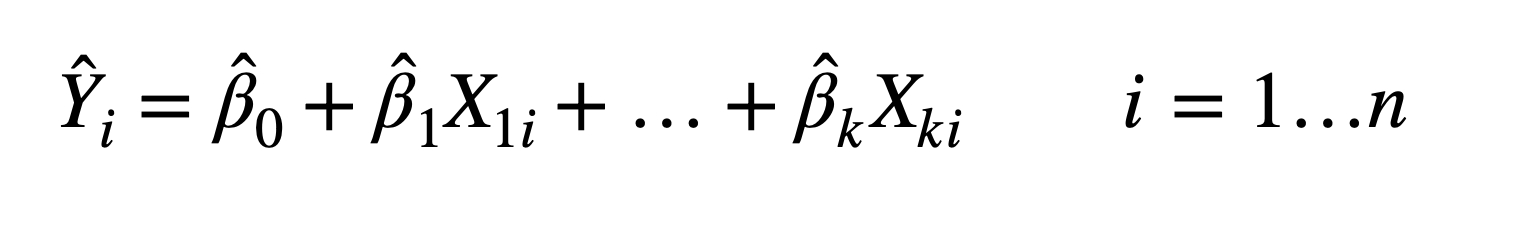
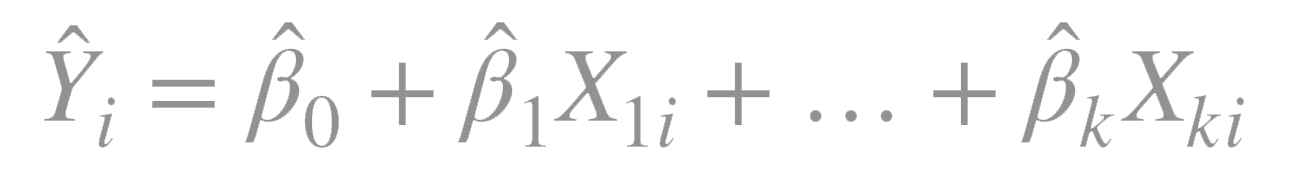
Figured out how to include math equations.

diff --git a/layouts/partials/math.html b/layouts/partials/math.html
@@ -1,0 +1,9 @@
+<script id="MathJax-script" async src="https://cdn.jsdelivr.net/npm/mathjax@3/es5/tex-chtml.js"></script>
+<script>
+  MathJax = {
+    tex: {
+      displayMath: [['\[', '\]']], ['$$', '$$']],  // block
+      inlineMath: [['\(', '\)']]                  // inline
+    }
+  };
+</script>

diff --git a/themes/hugo-creative-portfolio-theme/layouts/_default/baseof.html b/themes/hugo-creative-portfolio-theme/layouts/_default/baseof.html
@@ -1,6 +1,11 @@
 <!DOCTYPE html>
 <html lang="{{ .Site.LanguageCode }}">
-<head>{{ partial "head.html" . }}</head>
+<head>
+  {{ partial "head.html" . }}
+   {{ if .Param "math" }}
+    {{ partialCached "math.html" . }}
+  {{ end }}
+</head>
 <body>
   <div id="all">
       <div class="container-fluid">

diff --git a/themes/hugo-creative-portfolio-theme/layouts/partials/math.html b/themes/hugo-creative-portfolio-theme/layouts/partials/math.html
@@ -1,0 +1,9 @@
+<script id="MathJax-script" async src="https://cdn.jsdelivr.net/npm/mathjax@3/es5/tex-chtml.js"></script>
+<script>
+  MathJax = {
+    tex: {
+      displayMath: [['\[', '\]']], ['$$', '$$']],  // block
+      inlineMath: [['\(', '\)']]                  // inline
+    }
+  };
+</script>

diff --git a/content/tutorials/model_fitting.md b/content/tutorials/model_fitting.md
@@ -24,15 +24,37 @@ A statistical model is means to capture the structure of the data as simply as p
 We use regression to predict a dependent variable from one or more independent variables.  Regression gives us an equation that describes the *form* of the relationship between dependent and independent variables and predicts the *value* of the dependent variable based on the independent variable(s)
 
 ## Ordinary Least Squares (OLS) regression
-Ordinary least squares fits models of the form
+Ordinary least squares fits models of the form:
 
 ![](/img/tutorials/eqn1.png)
 
-where *n* is the number of observations and *k* is the number of predictor variables.
+where \\(n\\) is the number of **observations** and \\(k\\) is the number of **predictor variables**.
 
-![](/img/tutorials/eqn2.png) is the predicted value of the dependent variable for observation *i*
+\\(\hat{Y}_i\\) is the predicted value of the dependent variable for observation \\(i\\)
 
+\\(X_{ki}\\) is the value of the \\(k\\)th independent variable for \\(X = i\\).
 
+\\(\hat{\beta}_0\\) is the predicted value of \\(Y\\) when all the predictor variables are \\(0\\), i.e. the **intercept**.
+
+\\(\hat{\beta}_k\\) is the slope representing  the change in \\(Y\\) for a unit change in \\(X_k\\), i.e .the **regression coeffient** for the \\(k\\)th predictor.
+
+You can use the `lm()` function in R to fit an OLS regression model, and the `summary()` function to obtain model parameters and summary statistics.
+
+### Statistical assumptions underlying OLS regression
+
+- **Normality**: For fixed values of \\(X_{1 \dots n}\\), \\(Y\\) is normally distributed 
+
+- **Independence**: The values of Y for a given X are independent of each other
+
+- **Linearity**: The relationship between the independent variables and the dependent variable is linear
+
+- **Homoscedasticity**: The variance of dependent variable is constant across all levels of the independent variable.
+
+![](/img/tutorials/regression1.png)
+
+When there is more than one predictor, we are dealing with multiple linear regression.
+
+- 
 # Linear Mixed Effects Models
 
 [Introduction to linear mixed models](https://ourcodingclub.github.io/tutorials/mixed-models/)

diff --git a/content/tutorials/R_tutorials.md b/content/tutorials/R_tutorials.md
@@ -22,7 +22,6 @@ R is not just a a statistics application, but a full-fledged programming languag
 ### Introductory Texts
 
 
-
 [*R for Non-Programmers: A Guide for Social Scientists* by Daniel Dauber](https://bookdown.org/daniel_dauber_io/r4np_book/)
 
 This introductory textbook does not assume or expect any prior knowledge or skills in programming or statistical analysis. Instead, this book offers a comprehensive entry to R programming for novices and more experienced analysts wishing to migrate from other computational software.
@@ -62,6 +61,10 @@ In early 2011, Danielle Navarro started teaching an introductory statistics clas
 [R for Data Science by Hadley Wickham & Garrett Grolemund](https://r4ds.had.co.nz/index.html)
 
 [*Data Analysis* in R by Steve Midway](https://bookdown.org/steve_midway/DAR/)
+
+[An Introduction to R by Alex Douglas, Deon Roos, Francesca Mancini, Ana Couto & David Lusseau](https://intro2r.com)
+
+I like this book because it focuses on reproducible research practices and covers topics such as  creating reproducible reports and version control. From the text: "the single biggest reason to use R is that it facilitates robust and reproducible research practices... writing code to perform your analysis ensures you have a permanent and accurate record of all the methods you used (and decisions you made) whilst analysing your data...This is one of the tenets of open science."  
 
 [R in Action by Robert Kabacoff](http://www.cs.uni.edu/~jacobson/4772/week11/R_in_Action.pdf)
 

diff --git a/content/tutorials/python.md b/content/tutorials/python.md
@@ -20,6 +20,8 @@ Python is a popular programming language with a  simple, easy to learn syntax th
 
 To get started with Python follow [this (excellent!) Python tutorial](https://learnpythontherightway.com/#read).
 
+
+
 [LinkedIn Learning](https://ihelp.providence.edu/services/linkedin-learning/) is available to all faculty, staff, and students at PC. Access it by logging into to your LinkedIn account with your Providence College email. 
 
 #### LinkedIn Learning Tutorials
@@ -28,4 +30,12 @@ To get started with Python follow [this (excellent!) Python tutorial](https://le
 
 [Learning Python](https://www.linkedin.com/learning/learning-python-14393370)
 
+
+### Python for Data Analysis
+
+In our lab we use python for programming our studies and R for analysing our data, but we can also analyse our data with Python. The following textbook is a great introduction to python for data analysis.
+
+[Reproducible Data Science with Python by Valentin Danchev](https://valdanchev.github.io/reproducible-data-science-python/intro.html)
+
+This textbook provides an accessible introduction to open, reproducible, and ethical data analysis using hands-on Python coding, modern open-source computational tools, and data science techniques. Topics include open reproducible research workflows, data wrangling, exploratory data analysis, data visualisation, pattern discovery (e.g., clustering), prediction & machine learning, causal inference, and network analysis.
 
